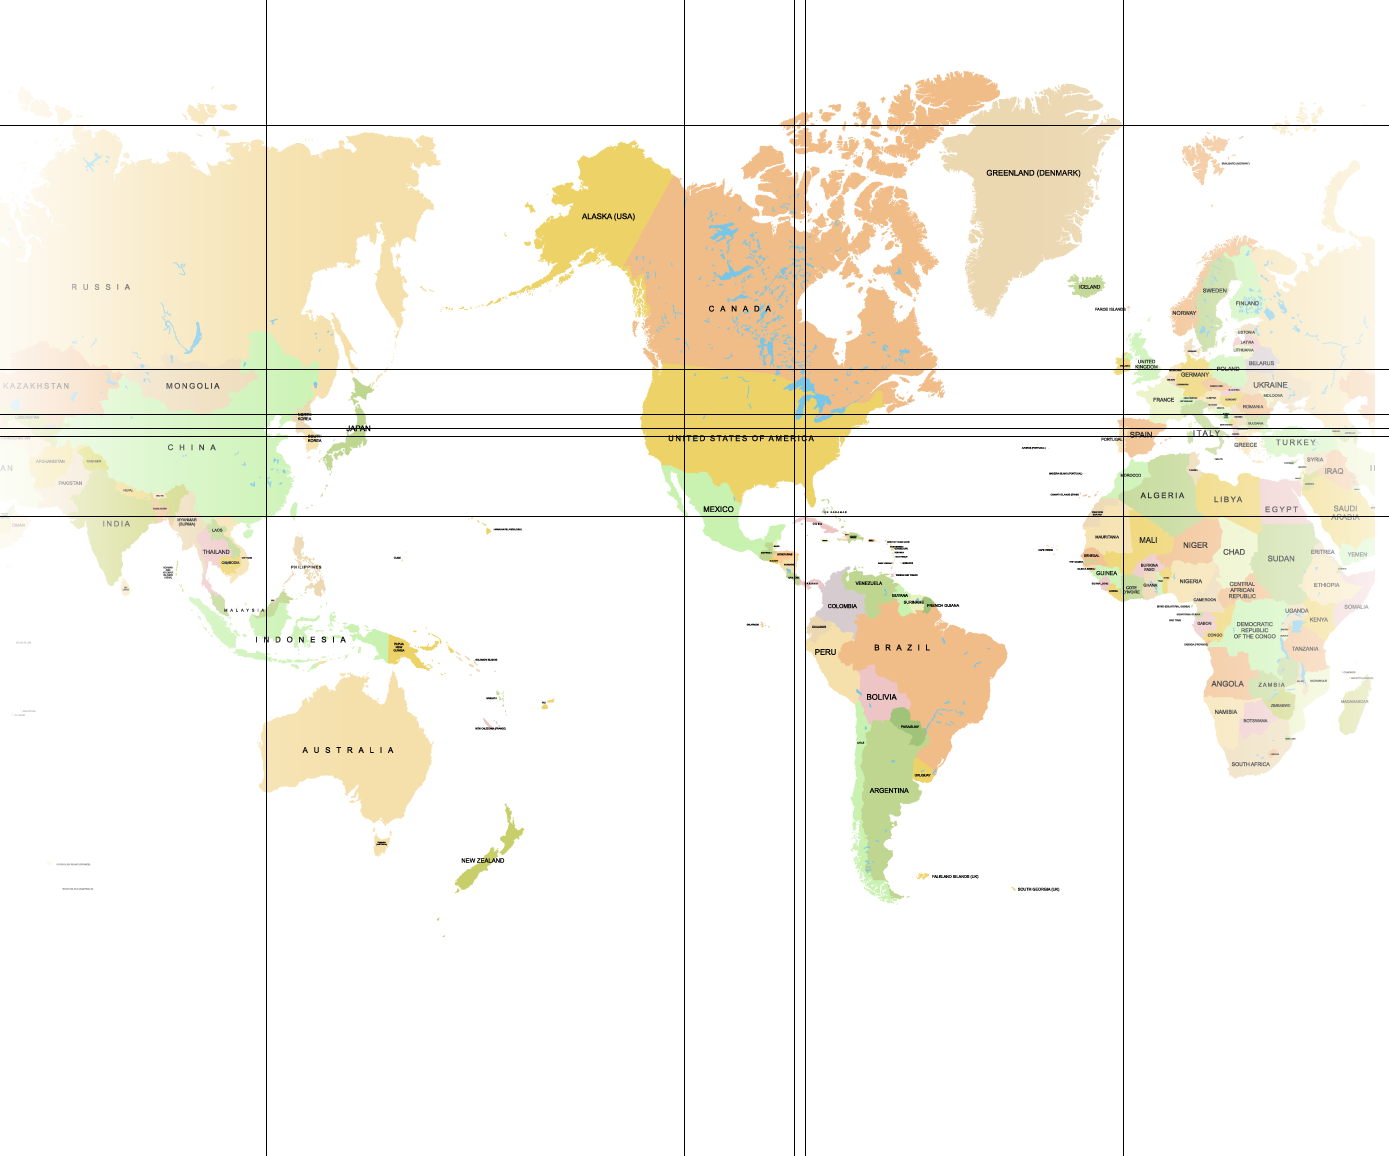
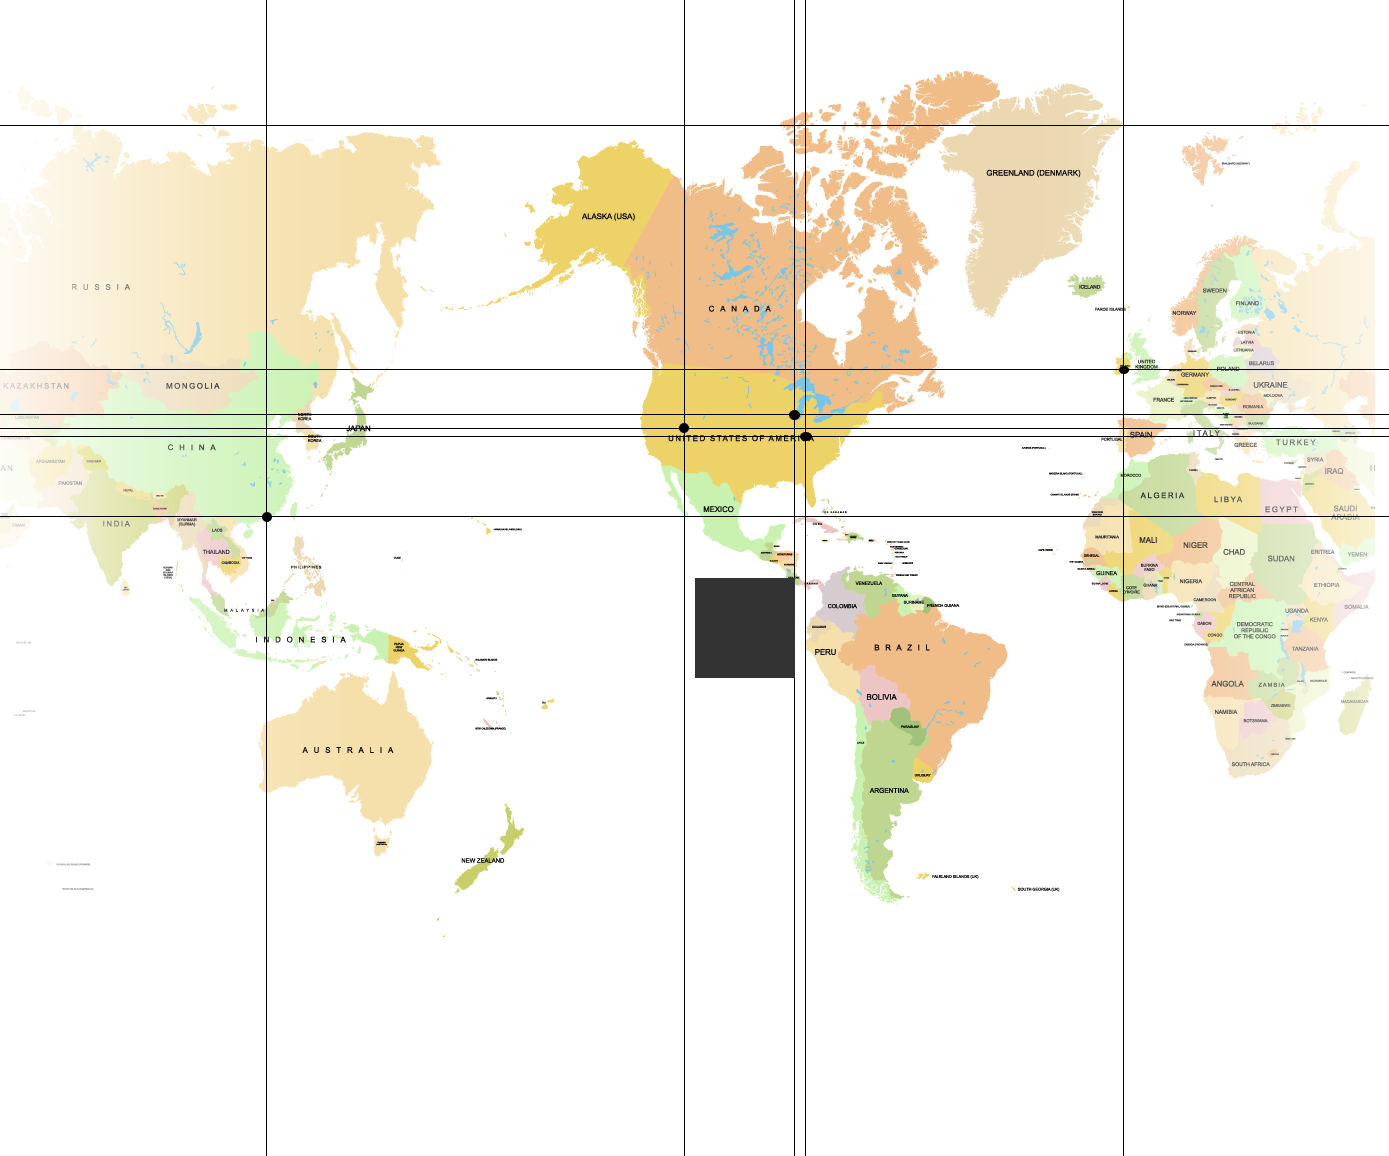
Top Navigation - I added a link for Events and now the navigation menu has pushed itself down - please adjust styling

Changed region(s): [[0.4953, 0.4983, 0.5882, 0.5917]]

diff --git a/assets/themes/exhibitionist/lib/js/min/homepage-jquery-min.js b/assets/themes/exhibitionist/lib/js/min/homepage-jquery-min.js
@@ -1,1 +1,1 @@
-var controller;jQuery(document).ready(function($){function o(){var o=$("#location .section-body").width(),t=1156*$("#location .section-body").width()/1389,e=t-$("#location .section-body").height();$("#locations_popovers").css("left","50%").css("top",(t-e)/2+"px");for(var i=0,s=location_positions.length;s>i;++i){var n=location_positions[i].elem,a=location_positions[i].position,c=a.split("|"),l=c[0]*(o/2)-$(n).width()/2,r=c[1]*(t/2)+$(n).height();console.log(n+": "+l+"|"+r),$(n).css("left",l+"px").css("top",r+"px");var d=$(n).css("bottom");$(n).css("bottom",d).css("top","auto")}}var t=$("#homepage-widgets section.widget").length;$("#homepage-widgets").addClass("cols-"+t);var e=12/t;$("#homepage-widgets section.widget").addClass("col-sm-"+e),$("#homepage-widgets section.widget").addClass("col-xs-12"),$(".section-location .section-body .wrap").wrapInner('<div class="inner-wrap"></div>').append($("#the-hand")),$(".section-location .section-body .wrap").before($("#locations_popovers")),$(".section-testimonials .quote").equalHeightColumns(),$(".section-testimonials .attribution").equalHeightColumns(),controller=new ScrollMagic;var i=TweenMax.fromTo("#the-hand",.5,{css:{bottom:"-516px"}},{css:{bottom:"-40px"}}),s=new ScrollScene({triggerElement:"#location.section",duration:700}).setTween(i).addTo(controller);o(),$("a.map-marker").hover(function(o){}),$("a.map-marker").click(function(o){o.preventDefault();var t=$(this).attr("map-data");$("#the-hand iframe").attr("src",t)}),$(window).resize(function(){o()})});
+var controller;jQuery(document).ready(function($){function o(o){var t,e=$(o).css("backgroundImage").replace(/url\((['"])?(.*?)\1\)/gi,"$2").split(",")[0],i=new Image;i.src=e;var s=i.width,a=i.height,n=$(o).width(),c=a*n/s,r=c.toString().split(".");return c=r[0]>=5?Math.ceil(c):Math.floor(c),t={height:c,width:n}}function t(){var t=o($("#location .section-body")),e=t.width,i=t.height,s=i-$("#location .section-body").height();$("#locations_popovers").css("left","50%").css("top",(i-s)/2+"px").css("border","1px solid red");for(var a=0,n=location_positions.length;n>a;++a){var c=location_positions[a].elem,r=location_positions[a].position,l=r.split("|"),d=l[0]*(e/2)-$(c).width()/2,p=l[1]*(i/2)+$(c).height();console.log(c+": "+d+"|"+p),$(c).css("left",d+"px").css("top",p+"px");var h=$(c).css("bottom");$(c).css("bottom",h).css("top","auto")}}var e=$("#homepage-widgets section.widget").length;$("#homepage-widgets").addClass("cols-"+e);var i=12/e;$("#homepage-widgets section.widget").addClass("col-sm-"+i),$("#homepage-widgets section.widget").addClass("col-xs-12"),$(".section-location .section-body .wrap").wrapInner('<div class="inner-wrap"></div>').append($("#the-hand")),$(".section-location .section-body .wrap").before($("#locations_popovers")),$(".section-testimonials .quote").equalHeightColumns(),$(".section-testimonials .attribution").equalHeightColumns(),controller=new ScrollMagic;var s=TweenMax.fromTo("#the-hand",.5,{css:{bottom:"-516px"}},{css:{bottom:"-40px"}}),a=new ScrollScene({triggerElement:"#location.section",duration:700}).setTween(s).addTo(controller),n='<div style="height: 100px; width: 100px; background-color: red; opacity: 0.5;position: absolute;top: 50%; left: 50%;"></div>';$("#locations_popovers").append(n),t(),$("a.map-marker").hover(function(o){}),$("a.map-marker").click(function(o){o.preventDefault();var t=$(this).attr("map-data");$("#the-hand iframe").attr("src",t)}),$(window).resize(function(){t()})});

diff --git a/assets/themes/exhibitionist/lib/js/homepage-jquery.js b/assets/themes/exhibitionist/lib/js/homepage-jquery.js
@@ -1,4 +1,5 @@
 var controller;
+
 jQuery(document).ready(function($) {
     var numwidgets = $('#homepage-widgets section.widget').length;
     $('#homepage-widgets').addClass('cols-'+numwidgets);
@@ -26,26 +27,59 @@ jQuery(document).ready(function($) {
 
     // show indicators (requires debug extension)
     //scene.addIndicators();
+    
+    function getBkgSize(img){
+    var result;
+    var imageSrc = $(img).css('backgroundImage')
+                       .replace(/url\((['"])?(.*?)\1\)/gi, '$2')
+                        .split(',')[0];    
+    var image = new Image();
+    image.src = imageSrc;
+    var bgwidth = image.width,
+        bgheight = image.height,    
+        bgContainWidth = $(img).width();
+    
+    var bgContainHeight = (bgheight*bgContainWidth)/bgwidth;
+    
+    var decimal = bgContainHeight.toString().split('.');
+    
+    if(decimal[0]>=5)
+    {
+        bgContainHeight = Math.ceil(bgContainHeight);
+    }
+    else
+    {
+        bgContainHeight = Math.floor(bgContainHeight);
+    }
+    result = {'height': bgContainHeight,'width':bgContainWidth};
+   return result;
+    
+}
+    
     function position_it(){
+        var bkgSize = getBkgSize($('#location .section-body'));
+        var imgWidth = bkgSize.width; //$('#location .section-body').width(); //checks out
+        var imgHeight = bkgSize.height;
+        var heightdiff = imgHeight - $('#location .section-body').height();
         
-        var width = $('#location .section-body').width();
-        var height = ($('#location .section-body').width()*1156)/1389;
-        var heightdiff = height - $('#location .section-body').height();
         
-        $('#locations_popovers').css('left', '50%').css('top',(height-heightdiff)/2 + 'px');
+        $('#locations_popovers').css('left', '50%').css('top',(imgHeight-heightdiff)/2 + 'px').css('border','1px solid red');
         for(var i = 0, l = location_positions.length; i < l; ++i){
             var elem = location_positions[i].elem;
             var posstr = location_positions[i].position;
+            //console.log(elem + ': ' + posstr);
             var pos = posstr.split("|");
-            var left = ((pos[0]*(width/2))-($(elem).width()/2));
-            var top = ((pos[1]*(height/2))+($(elem).height()));
+            var left = ((pos[0]*(imgWidth/2))-($(elem).width()/2)); //checks out
+            var top = ((pos[1]*(imgHeight/2))+($(elem).height()));
+            
             console.log(elem + ': ' + left + '|' + top);
             $(elem).css("left",left + "px").css("top",top + "px");
             var btm = $(elem).css("bottom");
             $(elem).css("bottom",btm).css("top","auto");
         }
     }
-    
+    var testbox = '<div style="height: 100px; width: 100px; background-color: red; opacity: 0.5;position: absolute;top: 50%; left: 50%;"></div>';
+    $('#locations_popovers').append(testbox);
     position_it();
     $('a.map-marker').hover(function(e){
     });

diff --git a/assets/themes/exhibitionist/lib/less/homepage.less b/assets/themes/exhibitionist/lib/less/homepage.less
@@ -4,14 +4,17 @@
 .section-location{
   z-index: 10;
   .section-body{
-    background: url('../img/home-location-big-map.png') no-repeat center center @vltgrey;
-    //background: url('../img/mapForMath2.png') no-repeat center center @vltgrey;
+    //background: url('../img/home-location-big-map.png') no-repeat center center @vltgrey;
+    background: url('../img/mapForMath2.png') no-repeat center center @vltgrey;
     background-size: cover;
     padding: 0;
     position: relative;
+    display: block;
     #locations_popovers{
       position: relative;
       z-index: 900;
+      left: 50%;
+      top: 50%;
       .map-marker{
         z-index: auto;
         position: absolute;
@@ -91,6 +94,7 @@
       min-height: 780px;
       min-height: 78rem;
       z-index: 100;
+      top: -26px;
       .inner-wrap{
         background-color: rgba(255,255,255,0.7);
         padding: 2rem;

diff --git a/assets/themes/exhibitionist/lib/css/homepage.css b/assets/themes/exhibitionist/lib/css/homepage.css
@@ -52,14 +52,17 @@
   z-index: 10;
 }
 .section-location .section-body {
-  background: url('../img/home-location-big-map.png') no-repeat center center #cccccc;
+  background: url('../img/mapForMath2.png') no-repeat center center #cccccc;
   background-size: cover;
   padding: 0;
   position: relative;
+  display: block;
 }
 .section-location .section-body #locations_popovers {
   position: relative;
   z-index: 900;
+  left: 50%;
+  top: 50%;
 }
 .section-location .section-body #locations_popovers .map-marker {
   z-index: auto;
@@ -152,6 +155,7 @@
   min-height: 780px;
   min-height: 78rem;
   z-index: 100;
+  top: -26px;
 }
 .section-location .section-body .wrap .inner-wrap {
   background-color: rgba(255, 255, 255, 0.7);

diff --git a/assets/themes/exhibitionist/lib/css/style.css b/assets/themes/exhibitionist/lib/css/style.css
@@ -6489,13 +6489,13 @@ Site Navigation
 .nav-primary li.menu-item {
   font-size: 16px;
   font-size: 1.6rem;
-  padding: 1rem 2rem;
   font-weight: 700;
+  padding: 0;
 }
 .nav-primary li.menu-item a {
   color: #163559;
   text-transform: uppercase;
-  padding: 0;
+  padding: 1rem 1.2rem;
 }
 .nav-primary li.menu-item .sub-menu {
   background-color: #ffffff;
@@ -6541,6 +6541,9 @@ Site Navigation
   font-family: FontAwesome;
   padding: 0 0.4rem 0 0.2rem;
   content: "\f015";
+}
+.nav-primary li.last-child a {
+  padding-right: 0;
 }
 .mainNav > ul > li.first > ul > li.title > ul > li > ul > li {
   padding: 3px 0;

diff --git a/assets/themes/exhibitionist/lib/less/navigation.less b/assets/themes/exhibitionist/lib/less/navigation.less
@@ -123,12 +123,12 @@ Site Navigation
   li.menu-item{
     font-size: 16px;
     font-size: 1.6rem;
-    padding: 1rem 2rem;
     font-weight: 700;
+    padding: 0;
     a{
       color: @dkblue;
       text-transform: uppercase;
-      padding: 0;
+      padding: 1rem 1.2rem;
     }
     .sub-menu{
       background-color: @white;
@@ -172,6 +172,9 @@ Site Navigation
     }
   }
   li.last-child{
+    a{
+      padding-right: 0;
+    }
   }
 }
 .mainNav>ul>li.first>ul>li.title>ul>li>ul>li {
